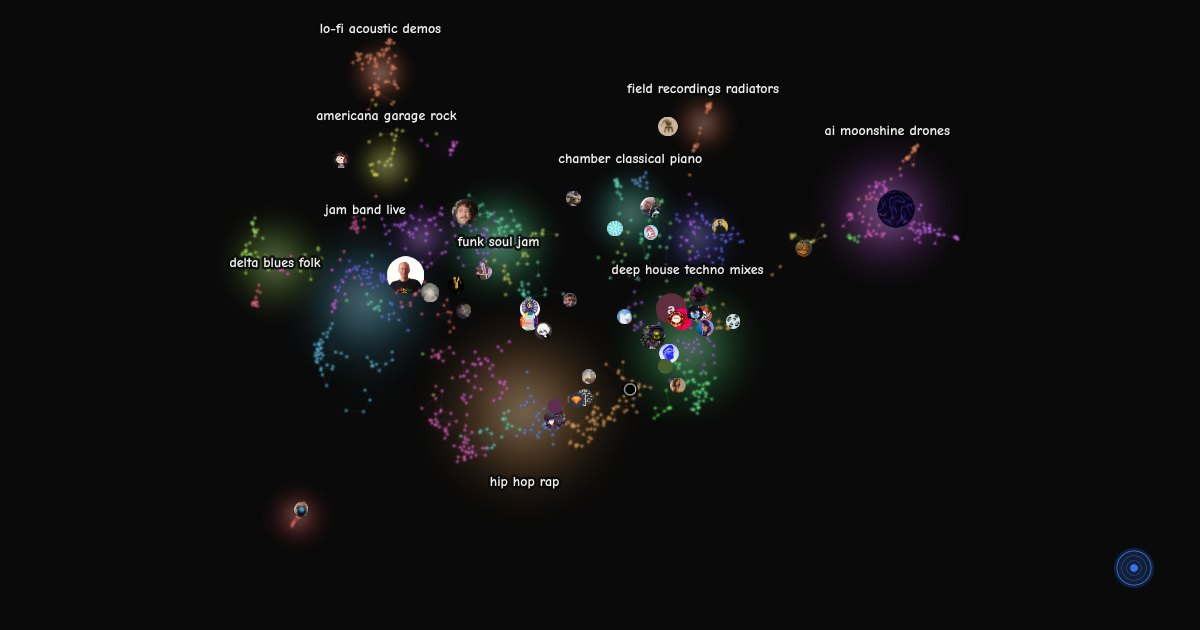
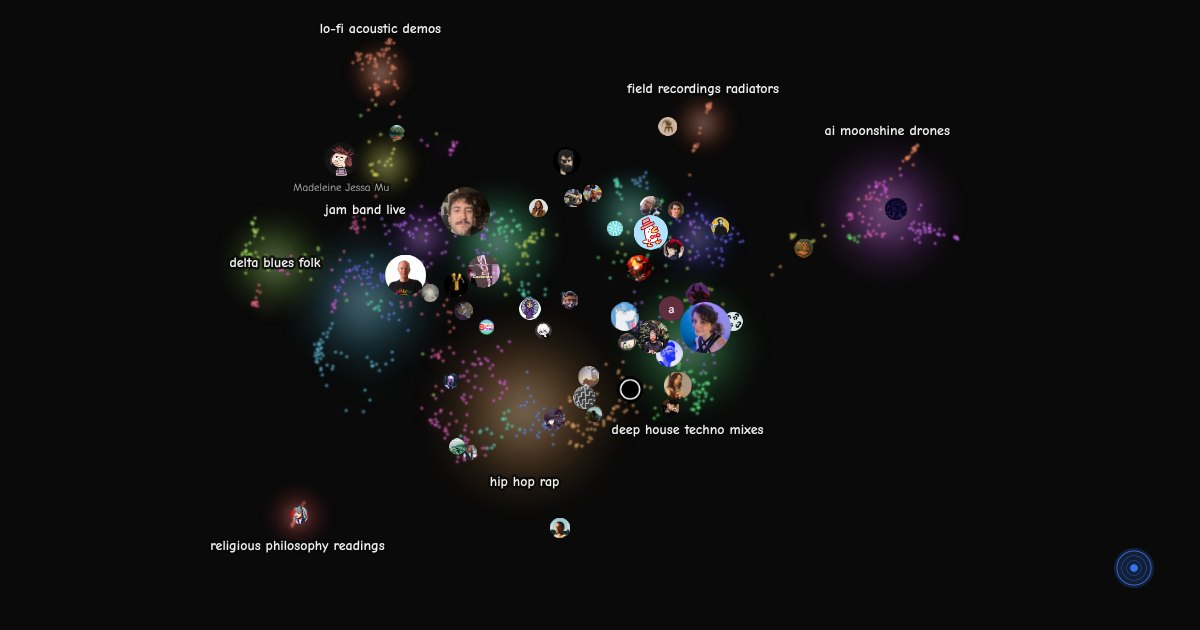
atlas: review fixes for covers and faces
- topmost face wins a click; covers answer clicks anywhere on them
- cover sprites capped at 128px with a 400-sprite LRU; at most 24 builds a frame,
  drawing the stale sprite scaled meanwhile
- cover size grows multiplicatively with zoom
- regenerate the /atlas unfurl image for reach-sized faces

Claude-Session: https://claude.ai/code/session_01QCgr8iEnTByfCsfcYYYUgW

diff --git a/next/web/src/lib/atlas/covers.ts b/next/web/src/lib/atlas/covers.ts
@@ -1,4 +1,8 @@
 const IN_FLIGHT = 12;
+/** sprites kept at once; the least recently drawn go first, with their images */
+const KEEP = 400;
+/** sprite builds per frame, so crossing a size step never rebuilds every cover at once */
+const BUILDS = 24;
 
 /**
  * track cover thumbnails for the atlas: the ones nearest the middle of the
@@ -11,6 +15,8 @@ export class TrackCovers {
   private loading = new Set<number>();
   private sprites = new Map<number, { px: number; cv: HTMLCanvasElement }>();
   private wanted: { i: number; url: string; d: number }[] = [];
+  private builds = 0;
+  private deferred = false;
 
   constructor(private onLoad: () => void) {}
 
@@ -30,6 +36,15 @@ export class TrackCovers {
       for (const { i, url } of this.wanted.slice(0, slots)) this.load(i, url);
     }
     this.wanted = [];
+    this.builds = 0;
+    // sprites left for later get the next frame
+    if (this.deferred) requestAnimationFrame(() => this.onLoad());
+    this.deferred = false;
+    for (const i of this.sprites.keys()) {
+      if (this.sprites.size <= KEEP) break;
+      this.sprites.delete(i);
+      this.images.delete(i);
+    }
   }
 
   private load(i: number, url: string): void {
@@ -51,11 +66,18 @@ export class TrackCovers {
     );
   }
 
-  private sprite(i: number, img: HTMLImageElement, px: number): HTMLCanvasElement {
+  private sprite(i: number, img: HTMLImageElement, px: number): HTMLCanvasElement | undefined {
     // sizes snap to powers of two and draw scaled, so a zoom rebuilds a sprite rarely
-    const size = Math.max(16, 2 ** Math.ceil(Math.log2(px)));
+    const size = Math.min(128, Math.max(16, 2 ** Math.ceil(Math.log2(px))));
     const hit = this.sprites.get(i);
-    if (hit?.px === size) return hit.cv;
+    if (hit) {
+      // most recently drawn last, so the oldest are dropped first
+      this.sprites.delete(i);
+      this.sprites.set(i, hit);
+      if (hit.px === size) return hit.cv;
+      if (this.builds >= BUILDS) return ((this.deferred = true), hit.cv);
+    } else if (this.builds >= BUILDS) return ((this.deferred = true), undefined);
+    this.builds++;
     const cv = document.createElement('canvas');
     cv.width = cv.height = size;
     const ctx = cv.getContext('2d')!;

diff --git a/next/web/src/lib/atlas/renderer.ts b/next/web/src/lib/atlas/renderer.ts
@@ -118,6 +118,7 @@ export class AtlasRenderer {
   private reach = new Float32Array(0);
   private byReach: number[] = [];
   private drawnFaces: { i: number; x: number; y: number; r: number }[] = [];
+  private drawnCovers: { i: number; sx: number; sy: number; size: number }[] = [];
   private regions: Neighborhood[] = [];
   private clusters: Neighborhood[] = [];
   private links: Uint32Array<ArrayBuffer> = new Uint32Array(0);
@@ -439,6 +440,11 @@ export class AtlasRenderer {
 
   private findNearest(sx: number, sy: number, maxDistPx: number): number {
     if (!this.data) return -1;
+    // a drawn cover answers anywhere on it; the last drawn sits on top
+    for (let k = this.drawnCovers.length - 1; k >= 0; k--) {
+      const c = this.drawnCovers[k];
+      if (Math.abs(sx - c.sx) <= c.size / 2 && Math.abs(sy - c.sy) <= c.size / 2) return c.i;
+    }
     const [dx, dy] = this.screenToData(sx, sy);
     const r = maxDistPx / this.scale;
     const cs = this.cellSize;
@@ -469,8 +475,8 @@ export class AtlasRenderer {
   }
 
   private findArtistAt(sx: number, sy: number): number {
-    // faces drawn last sit on top, so they win
-    for (let k = this.drawnFaces.length - 1; k >= 0; k--) {
+    // faces are drawn in reverse, so the first in the list sits on top and wins
+    for (let k = 0; k < this.drawnFaces.length; k++) {
       const f = this.drawnFaces[k];
       if ((sx - f.x) ** 2 + (sy - f.y) ** 2 <= f.r * f.r) return f.i;
     }
@@ -568,7 +574,7 @@ export class AtlasRenderer {
       }
       cands.sort((a, b) => a.d - b.d);
       if (cands.length > T.budget[small ? 's' : 'l']) cands.length = T.budget[small ? 's' : 'l'];
-      const maxPx = Math.min(T.maxPx, T.minPx + (zoom - T.start) * 3);
+      const maxPx = Math.min(T.maxPx, T.minPx * (zoom / T.start) ** 1.1);
       for (const c of cands) {
         let best = maxPx * maxPx * 1.3;
         for (const o of cands) {
@@ -612,6 +618,7 @@ export class AtlasRenderer {
       ctx.drawImage(spr, sx - w / 2, sy - w / 2, w, w);
     }
 
+    this.drawnCovers = covers;
     ctx.globalAlpha = coverAlpha;
     for (const c of covers) {
       const half = c.size / 2;
